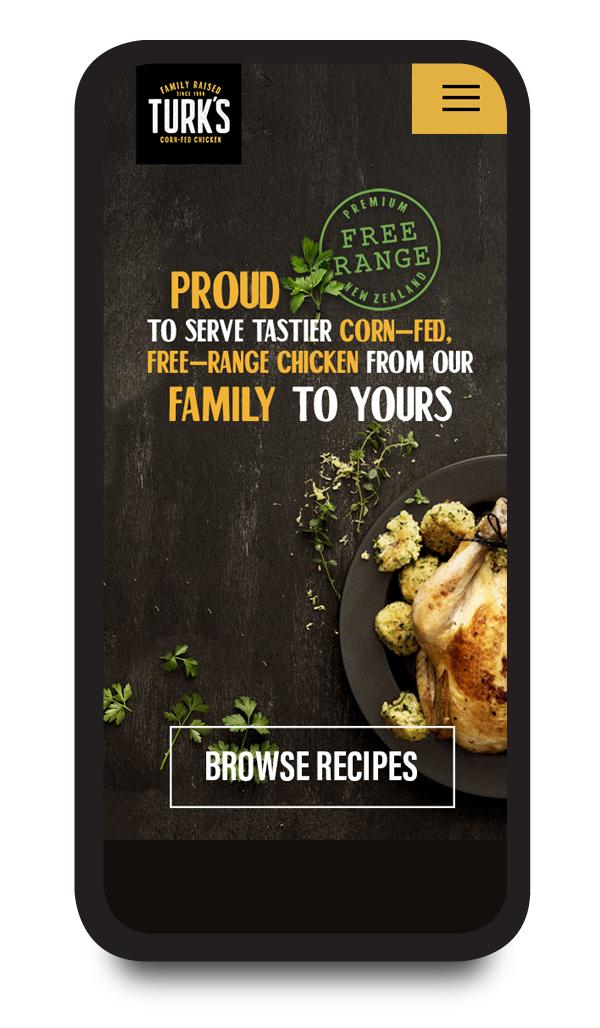
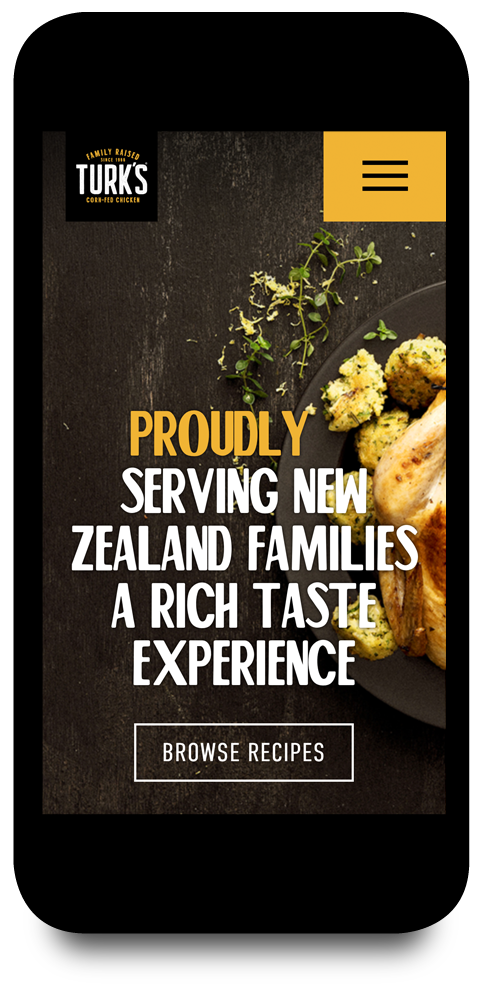
update turks.html

diff --git a/src/pages/turks.html b/src/pages/turks.html
@@ -1,13 +1,14 @@
-{{> main-nav-rev}}
+{{> main-nav}}
 
 <section class="turks-hero">
     <div class="grid-container">
         <div class="grid-x grid-margin-x">
             <div class="cell large-10 large-offset-1">
                 <div class="turks-hero-content hero-content">
+                    <p class="uppercase text-center design-tags text-bold "> UI/UX, Web design</p>
                     <h1 class="uppercase text-center">Turk’s Chicken</h1>
-                    <p class="lead-paragraph-large text-reverse text-center">One of New Zealand’s premium chicken brands.</p>
-                    <p class="text-reverse text-center">Lorem ipsum dolor sit amet consectetur adipisicing elit. Dolores molestiae commodi mollitia dolore. Quo consequuntur quibusdam quod maiores natus ducimus, voluptas saepe iste facere voluptate! Provident tempora tempore impedit nobis.</p>
+                    <p class="lead-paragraph-large text-center">One of New Zealand’s premium chicken brands.</p>
+                    <p class="text-center">Turk’s had recently made a shift to certified free-range farming, the task was to update their online presence and create a site more in line with the premium free-range chicken industry, with an important shift from a wholesaler supply channel to a direct-to-consumer solution. As a core member of the design team, I was tasked with developing the UI/UX for the new site.</p>
                 </div>
             </div>   
         </div>
@@ -30,13 +31,13 @@
             <div class="grid-x grid-margin-x">
                 <div class="cell large-10 large-offset-1">   
                     <div class="grid-x grid-margin-x">
-                        <div class="cell large-4 medium-4 small-12 fw-img">
+                        <div class="cell large-4 medium-4 small-4 fw-img">
                             <img src="assets/img/portfolio-items/turks/turks-mobile-01.png" alt="">
                         </div>
-                        <div class="cell large-4 medium-4 small-12 fw-img">
+                        <div class="cell large-4 medium-4 small-4 fw-img">
                             <img src="assets/img/portfolio-items/turks/turks-mobile-02.png" alt="">
                         </div>
-                        <div class="cell large-4 medium-4 small-12 fw-img">
+                        <div class="cell large-4 medium-4 small-4 fw-img">
                             <img src="assets/img/portfolio-items/turks/turks-mobile-03.png" alt="">
                         </div>
                     </div> 
@@ -53,10 +54,13 @@
                 </div>
             </div>
         </div>
+        <div class="cell large-12 btn-primary-large-02">
+            <a href="https://www.turks.co.nz/" class="btn-primary-03" target="blank">Visit website</a>
+        </div>
         <div class="turks-solid-bg"></div>
     </section>
     
-    <div>
+    <!-- <div>
         <div class="grid-container">
             <div class="grid-x">
                 <div class="cell large-12 btn-primary-large-02">
@@ -64,13 +68,9 @@
                 </div>
             </div>
         </div>
-    </div>
+    </div> -->
 
 
-
-
-    <div class="xera-footer">
-        {{> footer-reverse}}
-    </div>
+    {{> footer}}
     
 

diff --git a/src/assets/scss/components/_buttons.scss b/src/assets/scss/components/_buttons.scss
@@ -79,7 +79,7 @@
   margin-top: 32px;
   background-color: white;
   position: absolute;
-  transition: all 0.5s ease;
+  transition: all 0.25s ease;
 	z-index: -1;
  }
 
@@ -153,7 +153,19 @@ a.btn-primary:hover {
  .btn-primary-large-02 {
   margin: 30px 0px;
   text-align: center;
+  a {
+    background:  #f0b536;
+    color: white;
+    font-family: $bold-font;
+  }
 }
+
+.btn-primary-large-02 {
+  a:hover {
+    background:  darken(#f0b536, 10);
+  }
+}
+
 
 
  .btn-secondary-03 {

diff --git a/src/assets/scss/pages/_turks.scss b/src/assets/scss/pages/_turks.scss
@@ -1,5 +1,5 @@
 .turks-hero {
-    background: #102839;
+    // background: #102839;
 }
 
 .turks-hero-content {
@@ -20,6 +20,7 @@
         width: 30%;
         // background: #f0b536;
         background: white;
+        // background: lighten(#f0b536, 30);
         position: absolute;
         right: 0;
         z-index: 0;  
